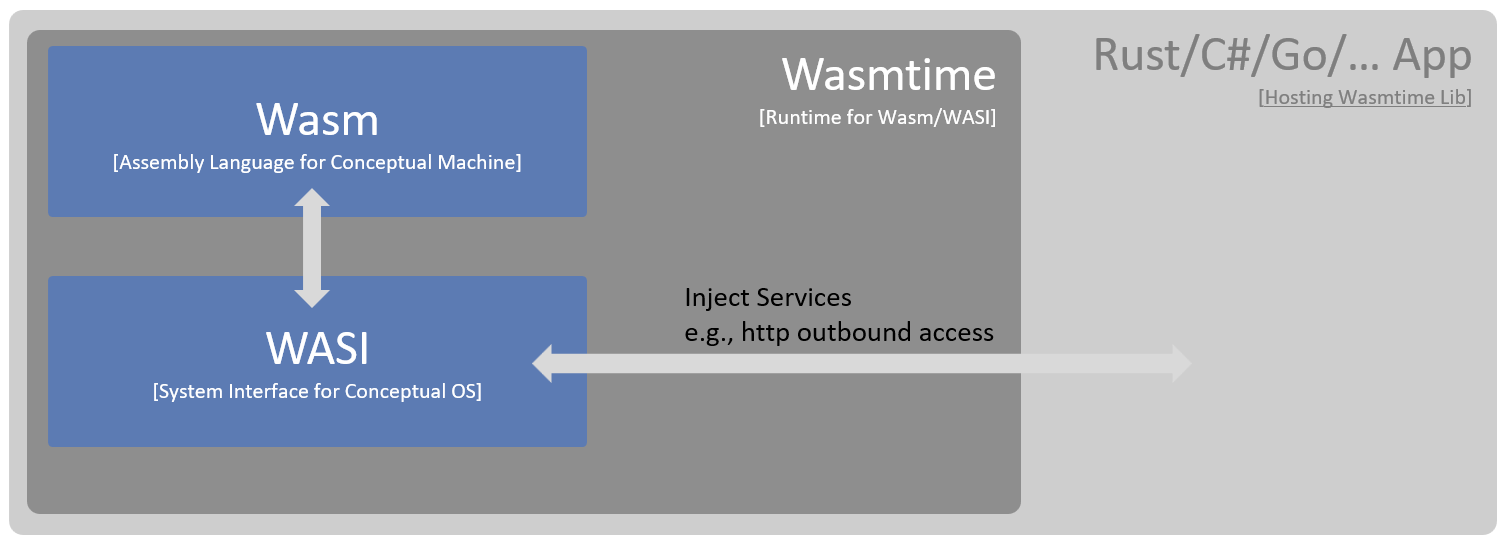
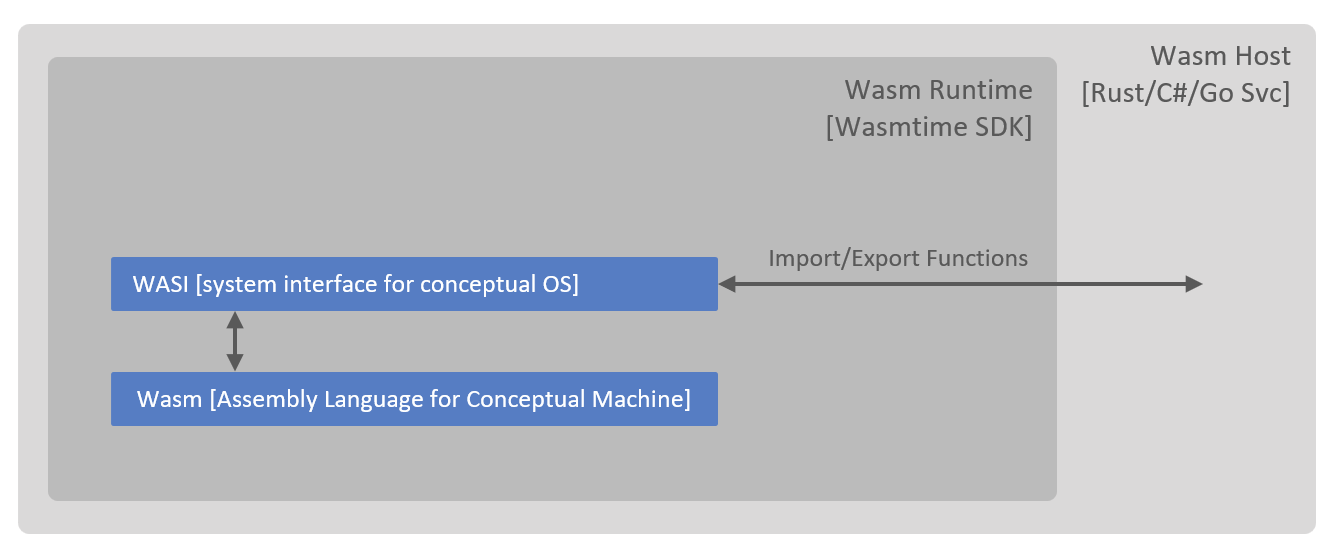
Added updated architecture diagrams and readme

diff --git a/modules/src/lib.rs b/modules/src/lib.rs
@@ -22,7 +22,7 @@ impl wasmexports::Wasmexports for Wasmexports {
         println!("Initialising edge module '{}' with connection string '{}'", MODULE_NAME, iot_edge_connection_string);
 
         // Calling host function here and print the return value.
-        wasmimports::sendout("Hello from sandbox!");
+        wasmimports::sendtelemetry(r#"{"device Id" : "001", "temp" : 12.5, "pressure": 20.3}"#);
     }
 }
 

diff --git a/edge/src/main.rs b/edge/src/main.rs
@@ -9,8 +9,8 @@ struct Wasmimports {
 }
 
 impl wasmimports::Wasmimports for Wasmimports {
-    fn sendout(&mut self, message: &str,) -> String {
-         println!("Called host function with: {}", message);
+    fn sendtelemetry(&mut self, message: &str,) -> String {
+         println!("Sending telemetry with content: {}", message);
         "Returned from host".to_string()
     }
 }

diff --git a/README.md b/README.md
@@ -10,14 +10,20 @@ The diagram below provides a conceptual view of how various components work toge
 
 When Wasm is hosted outside of web browser, it needs an interface to interact with the outside world, this interface is provided [WASI (Web Assembly System Interface)](https://wasi.dev/) which is hosted by a standalone [Wasmtime](https://github.com/bytecodealliance/wasmtime) runtime. Further, to make Wasm portable to multiple operating systems' APIs (e.g. both POSIX and Windows), we leverage WASI interfaces. [Wasmtime runtime SDKs](https://docs.wasmtime.dev/lang.html) enable Wasmtime runtime to be hosted in other applications, enabling development of Wasm orchestrators.
 
-In order to develop edge modules (Wasm binaries), we need to allow Wasm to make outbound Http calls to Azure IoT Hub via WASI. WASI is still in development and currently does not support many common interfaces. One such [interface is networking](https://github.com/WebAssembly/WASI/pull/312), which would have enabled making Http calls from Wasm to the outside world. To work around this limitation, Deis Labs (Microsoft) have developed an interim/stop-gap [solution](https://github.com/deislabs/wasi-experimental-http) which we make use of.
+In order to develop edge modules (Wasm binaries), we need to allow Wasm to make use of extenal resources e.g. outbound Http calls to Azure IoT Hub via WASI. WASI is still in development and currently does not support many common interfaces. One such [interface is networking](https://github.com/WebAssembly/WASI/pull/312), which would have enabled making Http calls from Wasm to the outside world. To work around this limitation, Deis Labs (Microsoft) have developed an interim/stop-gap [solution](https://github.com/deislabs/wasi-experimental-http) which we make use of. This effectively makes use of [“Host Functions”](https://radu-matei.com/blog/wasm-components-host-implementations/) imports approach (explained below) to access external resources from wasm modules, this interim approach will work as an on-ramp for eventual WASI networking stack.
 
 ![alt text](images/wasm-wasi-edge.png "Web Assemblies on Edge")
 
-The solution makes use of [Azure IoT Hub](https://docs.microsoft.com/en-gb/azure/iot-hub/) for data, control and management plane purposes. In particular:
+The solution can make use of [Azure IoT Hub](https://docs.microsoft.com/en-gb/azure/iot-hub/) for data, control and management plane purposes. In particular:
 
 1. Edge modules send telemetry to IoT Hub for ingress and further routing
 2. Device Twins are used to configure signal configuration Wasm based modules on the edge, from IoT Hub
+
+WIT Based Host Function Import Approach
+
+Host functions import approach allows the guest wasm module to import functions from the host app. These functions are written in host app programming language e.g. Rust, allowing us to write functions to access resources on the host e.g. networking stack to connect to cloud. 
+
+![alt text](images/wit-based-design.png "WIT Based Host Function Import Approach")
 
 Wasm Solution Components
 ![alt text](images/components.png "Core Wasm Solution Components")
@@ -26,11 +32,10 @@ Wasm Solution Components
 
 1. Open the solution in Codespaces
 2. Compile edge module to wasm32-wasi:
-    1. `cd modules/iot_edge_module_simulated`
+    1. `cd modules`
     2. run `cargo build --target wasm32-wasi`
-3. Update edge module device config in iot_edge_module_simulated.toml
-4. Compile and run app which hosts wasmtime and wasi to run wasm edge module:
-    1. run `cargo run --bin wasmtime-http -- -a "https://<youriothubname>.azure-devices.net" -i "post_iot_message" ./target/wasm32-wasi/debug/iot_edge_module_simulated.wasm`
+3. Compile and run app which hosts wasmtime and wasi with imported/exported functions to run wasm edge module:
+    1. run `cargo run`
 
 ## References
 
